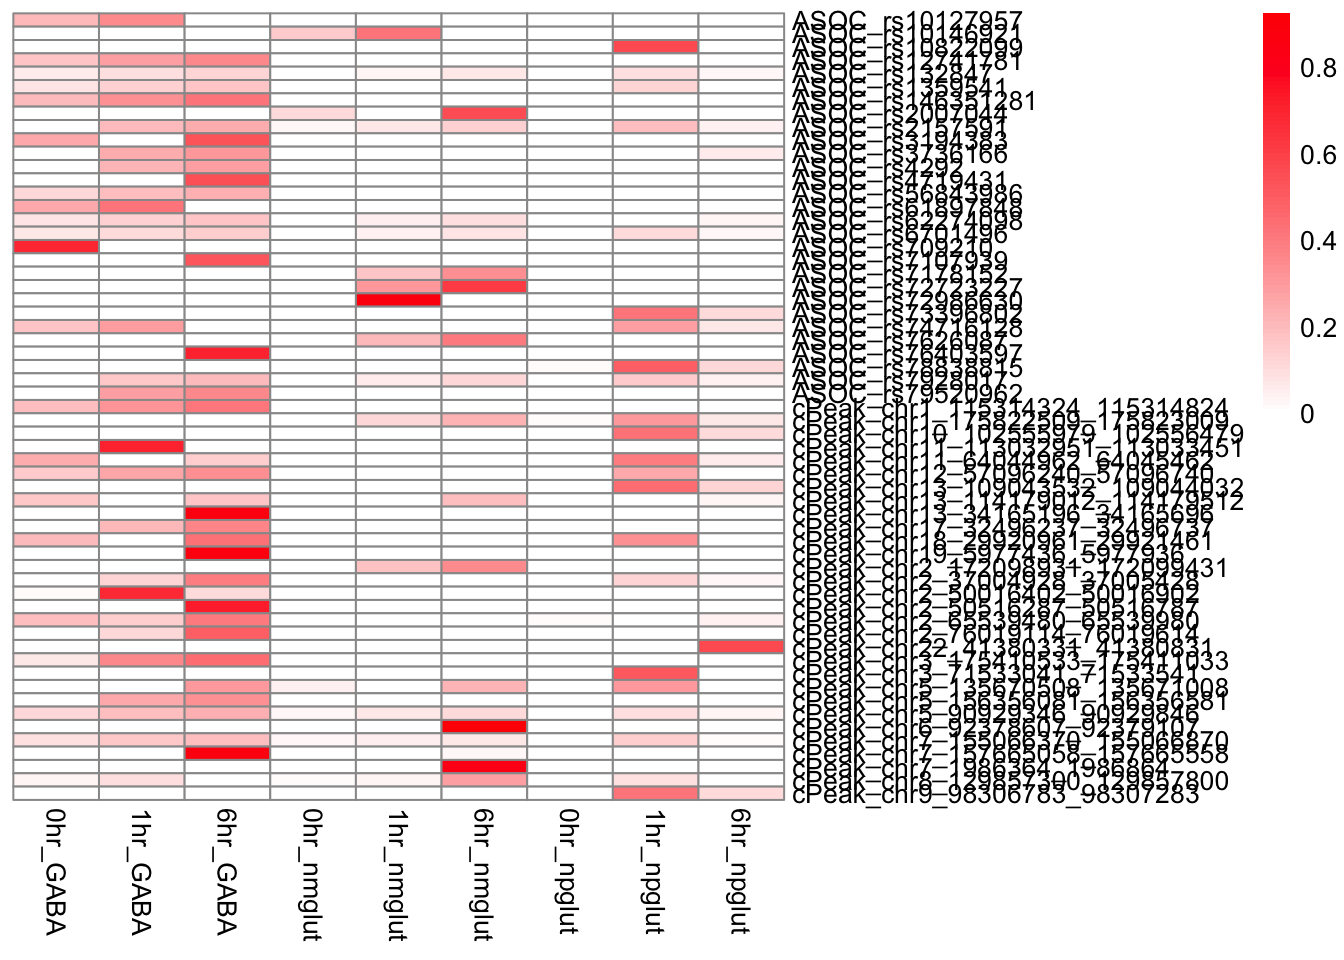
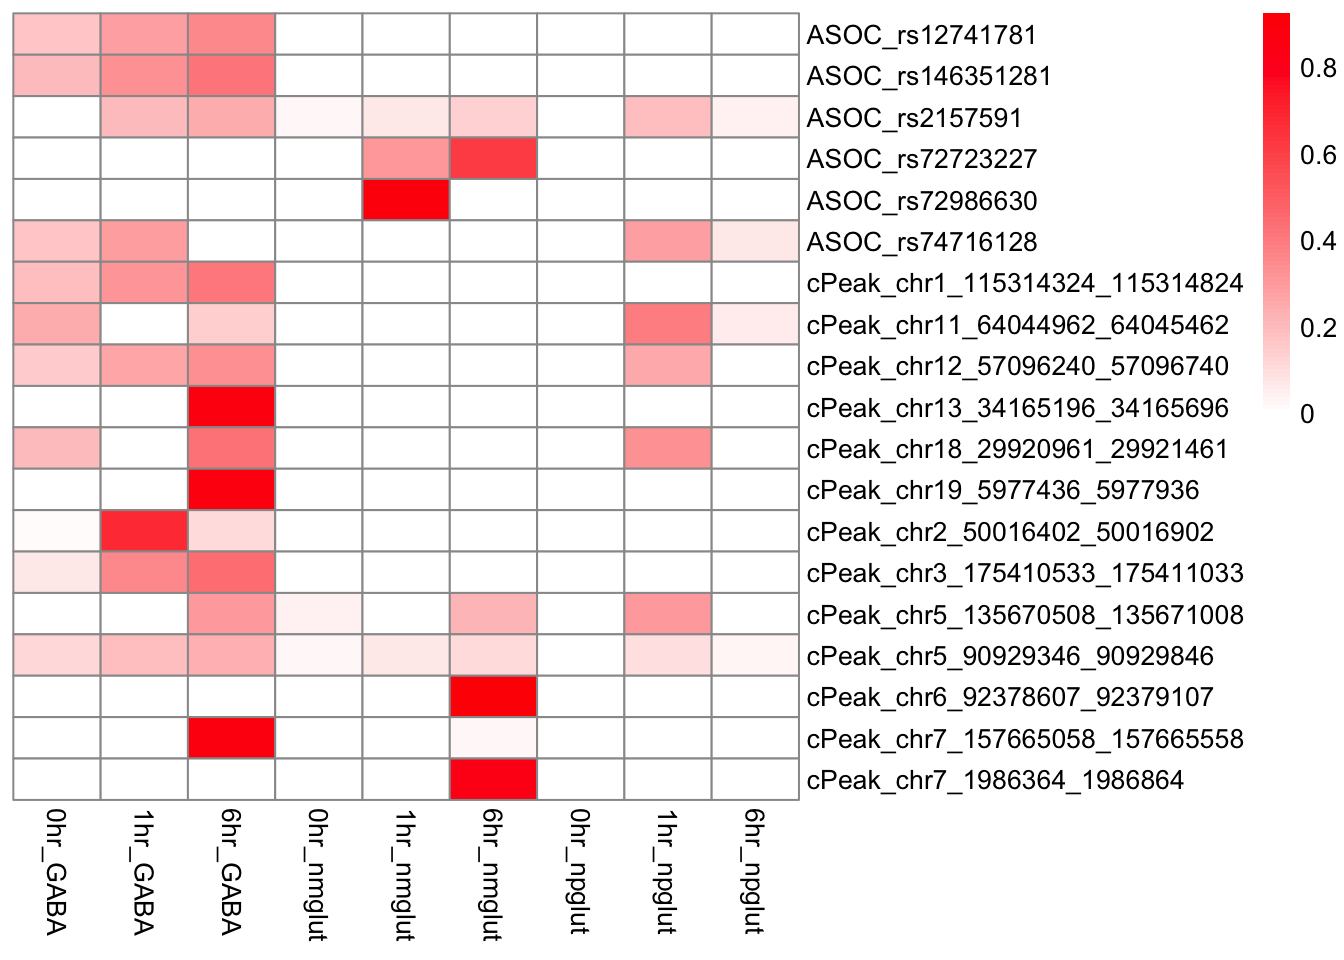
Build site.

diff --git a/docs/ctwas_caQTL_ASOC.html b/docs/ctwas_caQTL_ASOC.html
@@ -398,7 +398,7 @@ class="glyphicon glyphicon-ok text-success" aria-hidden="true"></span>
 <div class="tab-content">
 <div id="summary" class="tab-pane fade in active">
 <p>
-<strong>Last updated:</strong> 2024-11-06
+<strong>Last updated:</strong> 2024-11-07
 </p>
 <p>
 <strong>Checks:</strong> <span
@@ -529,15 +529,15 @@ project makes it easier to run your code on other machines.</p>
 <div class="panel panel-default">
 <div class="panel-heading">
 <p class="panel-title">
-<a data-toggle="collapse" data-parent="#workflowr-checks" href="#strongRepositoryversionstrongahrefhttpsgithubcomLifanLiangneuronstimeQTL100treecebe60cfbbe71a9cdb2826f2adc05746104109aftargetblankcebe60ca">
+<a data-toggle="collapse" data-parent="#workflowr-checks" href="#strongRepositoryversionstrongahrefhttpsgithubcomLifanLiangneuronstimeQTL100treeaaa95524bc613e321e6567be327a75a9f503e936targetblankaaa9552a">
 <span class="glyphicon glyphicon-ok text-success"
 aria-hidden="true"></span> <strong>Repository version:</strong>
-<a href="https://github.com/LifanLiang/neuron_stim_eQTL100/tree/cebe60cfbbe71a9cdb2826f2adc05746104109af" target="_blank">cebe60c</a>
+<a href="https://github.com/LifanLiang/neuron_stim_eQTL100/tree/aaa95524bc613e321e6567be327a75a9f503e936" target="_blank">aaa9552</a>
 </a>
 </p>
 </div>
 <div
[2 lines of base64/hex data omitted]
 class="panel-collapse collapse">
 <div class="panel-body">
 <p>
@@ -547,7 +547,7 @@ reproducibility.
 </p>
 <p>
 The results in this page were generated with repository version
-<a href="https://github.com/LifanLiang/neuron_stim_eQTL100/tree/cebe60cfbbe71a9cdb2826f2adc05746104109af" target="_blank">cebe60c</a>.
+<a href="https://github.com/LifanLiang/neuron_stim_eQTL100/tree/aaa95524bc613e321e6567be327a75a9f503e936" target="_blank">aaa9552</a>.
 See the <em>Past versions</em> tab to see a history of the changes made
 to the R Markdown and HTML files.
 </p>
@@ -625,6 +625,40 @@ Message
 </tr>
 </thead>
 <tbody>
+<tr>
+<td>
+Rmd
+</td>
+<td>
+<a href="https://github.com/LifanLiang/neuron_stim_eQTL100/blob/aaa95524bc613e321e6567be327a75a9f503e936/analysis/ctwas_caQTL_ASOC.Rmd" target="_blank">aaa9552</a>
+</td>
+<td>
+Lifan Liang
+</td>
+<td>
+2024-11-07
+</td>
+<td>
+wflow_publish(c("analysis", "docs", "data"))
+</td>
+</tr>
+<tr>
+<td>
+html
+</td>
+<td>
+<a href="https://rawcdn.githack.com/LifanLiang/neuron_stim_eQTL100/607bd8b3bf2166aa2a193128ee89f83359a7fdb6/docs/ctwas_caQTL_ASOC.html" target="_blank">607bd8b</a>
+</td>
+<td>
+Lifan Liang
+</td>
+<td>
+2024-11-06
+</td>
+<td>
+Build site.
+</td>
+</tr>
 <tr>
 <td>
 Rmd
@@ -1302,7 +1336,7 @@ highest PIP for the corresponding peak/gene. There 17 peaks close to a
 gene (distance&lt;500K bps) in the cTWAS results. One SNP is shared by
 an ASOC and the gene ZNF823.</p>
 <div id="htmlwidget-427ea3e24281aa554de8" style="width:100%;height:auto;" class="datatables html-widget"></div>
-<script type="application/json" data-for="htmlwidget-427ea3e24281aa554de8">{"x":{"filter":"none","vertical":false,"data":[["57","40","5","21","18","6","12","16","13","56","47","11","14","9","15","19","22","26","41","42","48","7","49","8","50","31","25","43","35","4","33","3","32","34","46","30","29","24","23","NA","NA.1","NA.2","NA.3","NA.4","NA.5"],["ASOC_rs72986630","cPeak_chr11_64044962_64045462","cPeak_chr13_114179012_114179512","ASOC_rs78838815","ASOC_rs709210","ASOC_rs132847","cPeak_chr2_50016402_50016902","cPeak_chr2_172098931_172099431","cPeak_chr2_50516287_50516787","cPeak_chr19_5977436_5977936","cPeak_chr13_109043532_109044032","cPeak_chr2_37004928_37005428","cPeak_chr2_65539480_65539980","cPeak_chr1_175822509_175823009","cPeak_chr2_76019114_76019614","cPeak_chr3_71533041_71533541","ASOC_rs3194383","cPeak_chr5_156356081_156356581","cPeak_chr11_113032951_113033451","ASOC_rs7928017","ASOC_rs10146921","ASOC_rs10127957","ASOC_rs146351281","cPeak_chr1_115314324_115314824","ASOC_rs7178152","ASOC_rs79520962","cPeak_chr5_135670508_135671008","ASOC_rs7107939","cPeak_chr9_98306783_98307283","ASOC_rs1359541","cPeak_chr8_129857300_129857800","cPeak_chr7_155066370_155066870","cPeak_chr7_157665058_157665558","ASOC_rs56843986","cPeak_chr13_34165196_34165696","ASOC_rs4719431","cPeak_chr7_1986364_1986864","cPeak_chr5_90929346_90929846","ASOC_rs72723227",null,null,null,null,null,null],["ZNF823","GPR137","RASA3","PCDH7","ZMYND10","CDPF1","FOXN2","OLA1","FOXN2","MOB3A","RASA3","FOXN2","FOXN2","THBS3","ANKRD39","ZMYND10","PCDH7","ADAMTS2","FZD4","FZD4","GCH1","RCC1","GALK2","THBS3","GALK2","CROT","ADAMTS2","FZD4","GLIPR2","RASA3","CYP7B1","CROT","CROT","CYP7B1","RASA3","CROT","CROT","ADAMTS2","ADAMTS2",null,null,null,null,null,null],[0,1567,19684,30097,60539,916247,1688824,1999007,2180988,3723150,5092056,11311154,17215080,20703368,20815731,21260628,22899452,22998899,26036177,26567561,34238619,37143446,39220898,39805551,40242826,40415813,43679858,45525595,61983984,64549871,65146705,67438152,70056677,78471996,79969179,85514966,85625411,88429644,172105082,null,null,null,null,null,null],[0.924230021097604,0.710177091630636,0.714221526355868,0.8229272530088,0.940355591290139,0.924944260000973,0.88301539876483,0.800427559876444,0.88301539876483,0.732585049667497,0.714221526355868,0.88301539876483,0.88301539876483,0.958523468139702,0.758136462474273,0.940355591290139,0.8229272530088,0.7495226687979,0.704223815145326,0.704223815145326,0.702388865128127,0.735657608968323,0.937840919816047,0.958523468139702,0.937840919816047,0.868267869654942,0.7495226687979,0.704223815145326,0.938742625633472,0.714221526355868,0.742701508150125,0.868267869654942,0.868267869654942,0.742701508150125,0.714221526355868,0.868267869654942,0.868267869654942,0.7495226687979,0.7495226687979,null,null,null,null,null,null]],"container":"<table class=\"display\">\n  <thead>\n    <tr>\n      <th> <\/th>\n      <th>peak<\/th>\n      <th>gene<\/th>\n      <th>distance<\/th>\n      <th>gene_PIP<\/th>\n    <\/tr>\n  <\/thead>\n<\/table>","options":{"columnDefs":[{"targets":4,"render":"function(data, type, row, meta) {\n    return type !== 'display' ? data : DTWidget.formatRound(data, 3, 3, \",\", \".\", null);\n  }"},{"className":"dt-right","targets":[3,4]},{"orderable":false,"targets":0}],"order":[],"autoWidth":false,"orderClasses":false}},"evals":["options.columnDefs.0.render"],"jsHooks":[]}</script>
+<script type="application/json" data-for="htmlwidget-427ea3e24281aa554de8">{"x":{"filter":"none","vertical":false,"data":[["18","19","3","17","12","15","1","10","9","2","NA","NA.1","NA.2","NA.3","NA.4","NA.5","NA.6","NA.7"],["ASOC_rs72986630","ASOC_rs2157591","cPeak_chr2_50016402_50016902","cPeak_chr19_5977436_5977936","cPeak_chr11_64044962_64045462","ASOC_rs146351281","cPeak_chr1_115314324_115314824","cPeak_chr7_157665058_157665558","cPeak_chr7_1986364_1986864","ASOC_rs12741781",null,null,null,null,null,null,null,null],["ZNF823","NAGA","FOXN2","ZNF823","ARL14EP","GALK2","THBS3","CROT","CROT","THBS3",null,null,null,null,null,null,null,null],[0,332104,1688824,5740689,33857943,39220898,39805551,70056677,85625411,88149914,null,null,null,null,null,null,null,null],[0.924230021097604,0.952637017566327,0.88301539876483,0.924230021097604,0.813893454826733,0.937840919816047,0.958523468139702,0.868267869654942,0.868267869654942,0.958523468139702,null,null,null,null,null,null,null,null]],"container":"<table class=\"display\">\n  <thead>\n    <tr>\n      <th> <\/th>\n      <th>peak<\/th>\n      <th>gene<\/th>\n      <th>distance<\/th>\n      <th>gene_PIP<\/th>\n    <\/tr>\n  <\/thead>\n<\/table>","options":{"columnDefs":[{"targets":4,"render":"function(data, type, row, meta) {\n    return type !== 'display' ? data : DTWidget.formatRound(data, 3, 3, \",\", \".\", null);\n  }"},{"className":"dt-right","targets":[3,4]},{"orderable":false,"targets":0}],"order":[],"autoWidth":false,"orderClasses":false}},"evals":["options.columnDefs.0.render"],"jsHooks":[]}</script>
 <p>Venn diagram below showed the overlap between cPeaks and genes with
 PIP&gt;50%.</p>
 <pre><code>[1] 1</code></pre>

diff --git a/docs/display.html b/docs/display.html
@@ -528,15 +528,15 @@ project makes it easier to run your code on other machines.</p>
 <div class="panel panel-default">
 <div class="panel-heading">
 <p class="panel-title">
-<a data-toggle="collapse" data-parent="#workflowr-checks" href="#strongRepositoryversionstrongahrefhttpsgithubcomLifanLiangneuronstimeQTL100treec325702aa2e9a0277a180b6b76662424d531273etargetblankc325702a">
+<a data-toggle="collapse" data-parent="#workflowr-checks" href="#strongRepositoryversionstrongahrefhttpsgithubcomLifanLiangneuronstimeQTL100treeaaa95524bc613e321e6567be327a75a9f503e936targetblankaaa9552a">
 <span class="glyphicon glyphicon-ok text-success"
 aria-hidden="true"></span> <strong>Repository version:</strong>
-<a href="https://github.com/LifanLiang/neuron_stim_eQTL100/tree/c325702aa2e9a0277a180b6b76662424d531273e" target="_blank">c325702</a>
+<a href="https://github.com/LifanLiang/neuron_stim_eQTL100/tree/aaa95524bc613e321e6567be327a75a9f503e936" target="_blank">aaa9552</a>
 </a>
 </p>
 </div>
 <div
[2 lines of base64/hex data omitted]
 class="panel-collapse collapse">
 <div class="panel-body">
 <p>
@@ -546,7 +546,7 @@ reproducibility.
 </p>
 <p>
 The results in this page were generated with repository version
-<a href="https://github.com/LifanLiang/neuron_stim_eQTL100/tree/c325702aa2e9a0277a180b6b76662424d531273e" target="_blank">c325702</a>.
+<a href="https://github.com/LifanLiang/neuron_stim_eQTL100/tree/aaa95524bc613e321e6567be327a75a9f503e936" target="_blank">aaa9552</a>.
 See the <em>Past versions</em> tab to see a history of the changes made
 to the R Markdown and HTML files.
 </p>
@@ -624,6 +624,40 @@ Message
 </tr>
 </thead>
 <tbody>
+<tr>
+<td>
+Rmd
+</td>
+<td>
+<a href="https://github.com/LifanLiang/neuron_stim_eQTL100/blob/aaa95524bc613e321e6567be327a75a9f503e936/analysis/display.Rmd" target="_blank">aaa9552</a>
+</td>
+<td>
+Lifan Liang
+</td>
+<td>
+2024-11-07
+</td>
+<td>
+wflow_publish(c("analysis", "docs", "data"))
+</td>
+</tr>
+<tr>
+<td>
+html
+</td>
+<td>
+<a href="https://rawcdn.githack.com/LifanLiang/neuron_stim_eQTL100/3696e6670ac9c71bd4961dd444de4de6560b67f0/docs/display.html" target="_blank">3696e66</a>
+</td>
+<td>
+Lifan Liang
+</td>
+<td>
+2024-11-07
+</td>
+<td>
+Build site.
+</td>
+</tr>
 <tr>
 <td>
 Rmd
@@ -1795,9 +1829,9 @@ Lifan Liang
 </div>
 </div>
 <div class="figure" style="text-align: center">
-<img src="figure/display.Rmd/unnamed-chunk-14-1.png" alt="Fig 8C. Number of candidate risk genes across 5 NPD traits." width="672" />
+<img src="figure/display.Rmd/unnamed-chunk-14-1.png" alt="FigS. H2G of caQTL cTWAS with and without controlling for eQTL" width="672" />
 <p class="caption">
-Fig 8C. Number of candidate risk genes across 5 NPD traits.
+FigS. H2G of caQTL cTWAS with and without controlling for eQTL
 </p>
 </div>
 <p>
@@ -1849,9 +1883,9 @@ Lifan Liang
 </div>
 </div>
 <div class="figure" style="text-align: center">
-<img src="figure/display.Rmd/unnamed-chunk-15-1.png" alt="Fig 8D. Heatmap of PIPs for high confidence risk peaks." width="672" />
+<img src="figure/display.Rmd/unnamed-chunk-15-1.png" alt="Fig 8C. Number of candidate risk genes across 5 NPD traits." width="672" />
 <p class="caption">
-Fig 8D. Heatmap of PIPs for high confidence risk peaks.
+Fig 8C. Number of candidate risk genes across 5 NPD traits.
 </p>
 </div>
 <p>
@@ -1902,10 +1936,71 @@ Lifan Liang
 </table>
 </div>
 </div>
+<div class="figure" style="text-align: center">
+<img src="figure/display.Rmd/unnamed-chunk-16-1.png" alt="Fig 8D. Heatmap of PIPs for high confidence risk peaks." width="672" />
+<p class="caption">
+Fig 8D. Heatmap of PIPs for high confidence risk peaks.
+</p>
+</div>
+<p>
+<button type="button" class="btn btn-default btn-xs btn-workflowr btn-workflowr-fig" data-toggle="collapse" data-target="#fig-unnamed-chunk-16-1">
+Past versions of unnamed-chunk-16-1.png
+</button>
+</p>
+<div id="fig-unnamed-chunk-16-1" class="collapse">
+<div class="table-responsive">
+<table class="table table-condensed table-hover">
+<thead>
+<tr>
+<th>
+Version
+</th>
+<th>
+Author
+</th>
+<th>
+Date
+</th>
+</tr>
+</thead>
+<tbody>
+<tr>
+<td>
+<a href="https://github.com/LifanLiang/neuron_stim_eQTL100/blob/6544d595c9c246e83de1a80f473983701661a986/docs/figure/display.Rmd/unnamed-chunk-16-1.png" target="_blank">6544d59</a>
+</td>
+<td>
+Lifan Liang
+</td>
+<td>
+2024-11-07
+</td>
+</tr>
+<tr>
+<td>
+<a href="https://github.com/LifanLiang/neuron_stim_eQTL100/blob/607bd8b3bf2166aa2a193128ee89f83359a7fdb6/docs/figure/display.Rmd/unnamed-chunk-16-1.png" target="_blank">607bd8b</a>
+</td>
+<td>
+Lifan Liang
+</td>
+<td>
+2024-11-06
+</td>
+</tr>
+</tbody>
+</table>
+</div>
+</div>
+<div class="figure" style="text-align: center">
+<img src="figure/display.Rmd/unnamed-chunk-17-1.png" alt="Fig S. Heatmap of PIPs for high confidence risk peaks." width="672" />
+<p class="caption">
+Fig S. Heatmap of PIPs for high confidence risk peaks.
+</p>
+</div>
 <div class="figure">
 <img src="assets/ctwas_peaks_vs_gene.png" alt="" />
 <p class="caption">Fig 8E. Venn diagram between caQTL cTWAS results and
-eQTL cTWAS results on the trait of SCZ.</p>
+eQTL cTWAS results on the trait of SCZ. Both cTWAS results were filtered
+with PIP&gt;80%.</p>
 </div>
 <br>
 <p>
